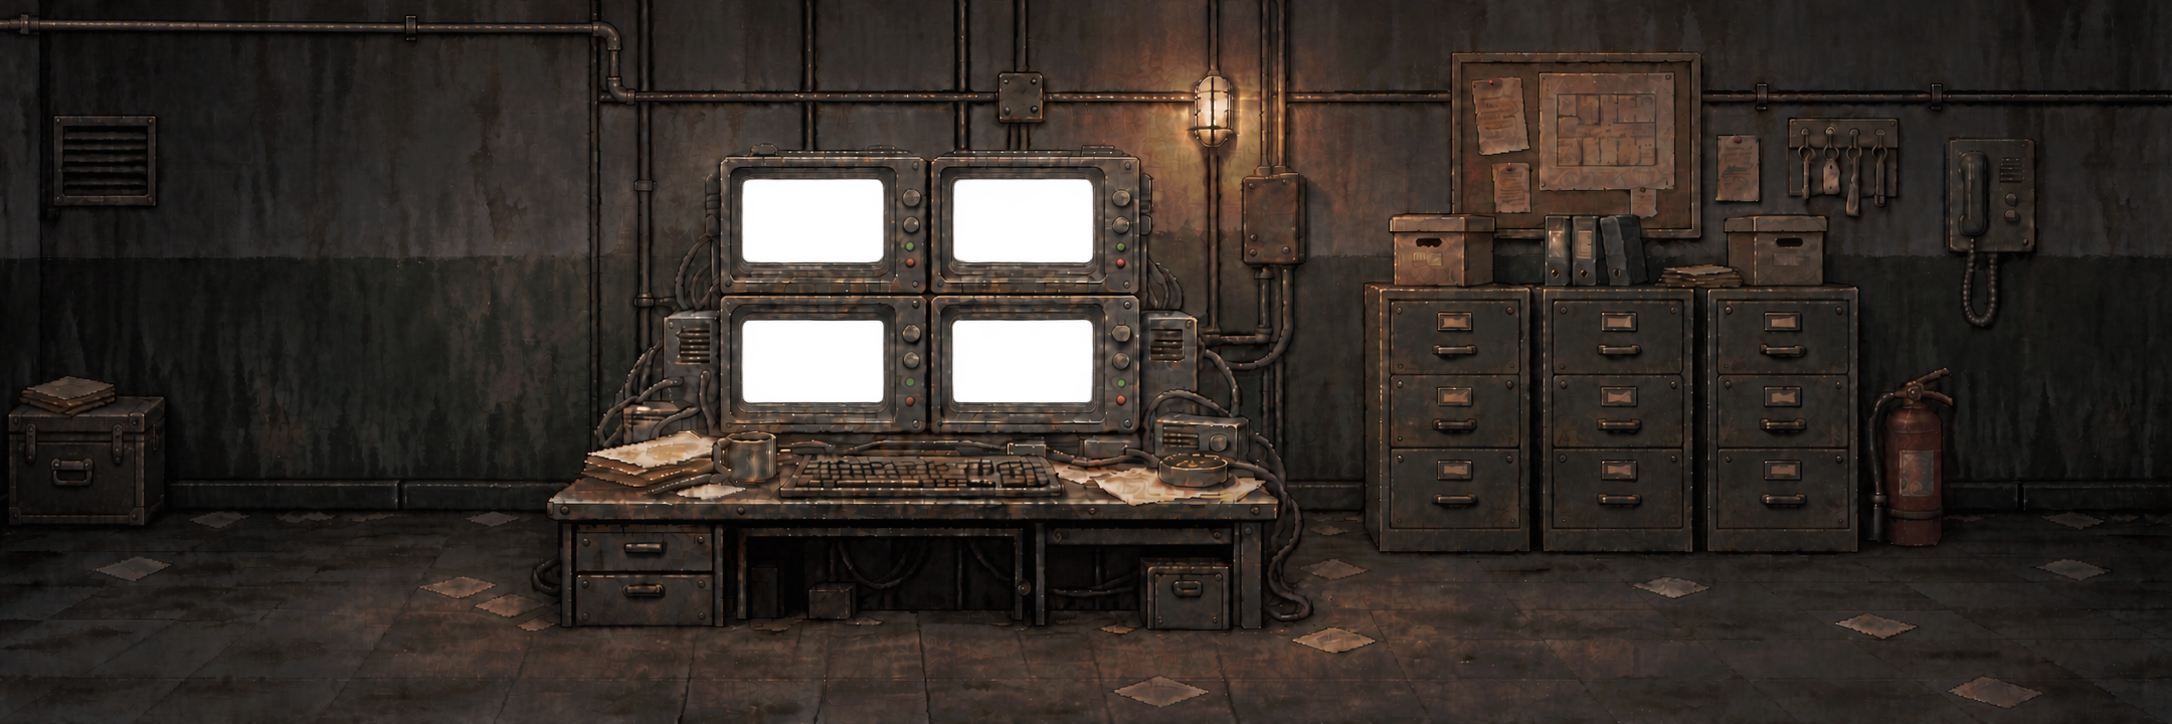
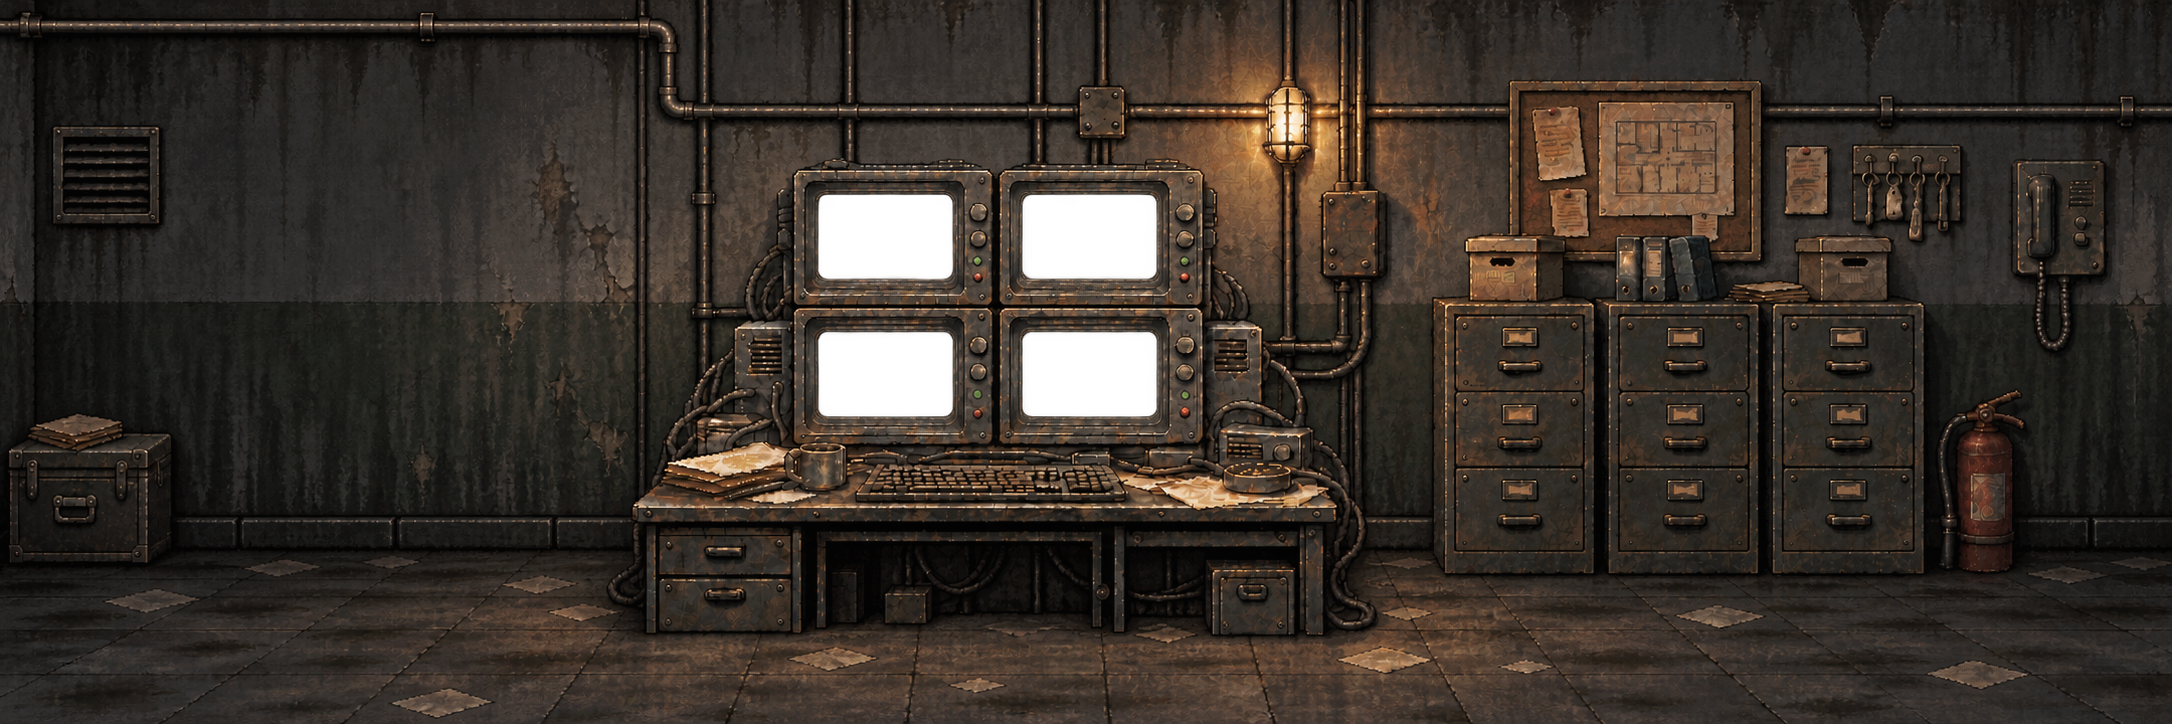
Regenerate continuous security room and retarget menu geometry

diff --git a/tests/test_menu_assets.py b/tests/test_menu_assets.py
@@ -36,9 +36,13 @@ for y in range(height):
         predictor=(0,left,above,(left+above)//2,paeth(left,above,corner))[kind]
         row[x]=(row[x]+predictor)&255
     rows.append(row);prior=row
-for x,y in [(800,220),(1000,220),(800,360),(1000,360)]:
+for x,y in [(886,236),(1088,235),(885,375),(1090,375)]:
     assert rows[y][x*4+3]==0,'CRT glass must be actual transparency, not painted checkerboard'
-holes=[(739,173,887,274),(946,173,1097,275),(739,312,887,412),(946,312,1097,411)]
+holes=[(817,194,954,280),(1021,194,1158,277),(817,334,954,418),(1021,334,1158,418)]
+# Entire inset glass interiors must be transparent; four pinholes are insufficient.
+interiors=[(824,211,943,270),(1034,210,1141,269),(827,346,945,403),(1035,344,1139,405)]
+for x0,y0,x1,y1 in interiors:
+    assert all(rows[y][x*4+3]==0 for y in range(y0,y1) for x in range(x0,x1)), 'Opaque pixels in CRT glass'
 for y in range(height):
     for x in range(width):
         if rows[y][x*4+3]==0:

diff --git a/README.md b/README.md
@@ -1,8 +1,8 @@
 # B47ANCE'd UI
 
-Development version: 0.5.0-dev.9.
+Development version: 0.5.0-dev.10.
 
-The development main-menu/logo column is centered on the open wall, with a smaller proportional logo and all dynamic entries above the baseboard. The artwork moves the vent/locker left and routes the pipe above this quiet space. At 1920x1080 the column center moves from about X333 to X550, ending around Y701. Offline layout checks cover 4:3, standard 16:9 through 4K, 21:9 and 32:9 through 5120x1440, including long labels. Dev.9 is not deployed or uploaded; Workshop remains 0.5.0-dev.8. Native rendering remains untested for this revision.
+The development security room is regenerated as one continuous image, with consistent wall, floor, pipes and lighting. The logo/menu fit on the quiet left wall, with four transparent CRT openings and adjusted standard/ultrawide crops. Source X440/Y72-470 bounds keep dynamic entries above the baseboard and before the conduit. Offline checks cover 4:3, standard 16:9 through 4K, 21:9 and 32:9 through 5120x1440, including long labels. Dev.10 is not deployed or uploaded; Workshop remains 0.5.0-dev.8. Current native rendering remains NOT TESTED. [Generation prompt and provenance](docs/MENU_ROOM_REGENERATION_PROMPT.md).
 
 Lua-only shared presentation for Project Zomboid Build 42.21. Public client API 1 provides styled native controls, rendering, layout helpers, focus, dialogs, bounded tooltips, per-mod/per-local-player appearance preferences, the appearance editor and original clipboard drawing.
 
@@ -16,7 +16,7 @@ The native adapter applies that style automatically to the native main-menu and 
 
 Quartermaster consumes this library; UI works without Quartermaster, Rooms or PC Framework. Application rows, labels, callbacks, permissions and network/gameplay state belong to consuming mods. No global vanilla class patches or custom Java/JAR dependencies.
 
-Development 0.5.0-dev.9 includes the original security-room main-menu artwork, with dark menu space on the left and four CRT screens on the right. The continuous room now extends beyond the desk to the right, with one wall paint boundary, connected pipe/baseboard and floor perspective. The wider field of view reframes the desk toward the center-left and retains a quiet left menu column. Filing cabinets, archive boxes, a security noticeboard, keys, intercom and extinguisher furnish the right wall; a shadowed footlocker and vent add detail at the far left. Uniform cover scaling fills 32:9 displays such as 5120x1440; narrow crops focus on the menu/desk group while ultrawide views reveal more right scenery. Each boot creates independent short startup delays and 1-60 seconds of static per monitor, followed by a persistent subdued NO SIGNAL loop. Menu labels are enlarged and centered beneath the logo; visible direct-child menu entries are discovered dynamically and rows refit when mods add, hide or remove them. Standard labels scale; custom renderers retain their own text drawing. These are decorative animations, not live cameras. The Esc background stays native; original menu actions and controller label objects remain. The title screen mutes native music gain at runtime; audible rain/thunder suppression awaits an in-game listening check. See [background design and runtime gates](docs/MENU_BACKGROUND.md).
+Development 0.5.0-dev.10 includes the original security-room main-menu artwork, with dark menu space on the left and four CRT screens on the right. The entire scene was regenerated together, including the wall, connected conduits, baseboard and tiled floor perspective. The wider field of view reframes the desk toward the center-left and retains a quiet left menu column. Filing cabinets, archive boxes, a security noticeboard, keys, intercom and extinguisher furnish the right wall; a shadowed footlocker and vent add detail at the far left. Uniform cover scaling fills 32:9 displays such as 5120x1440; narrow crops focus on the menu/desk group while ultrawide views reveal more right scenery. Each boot creates independent short startup delays and 1-60 seconds of static per monitor, followed by a persistent subdued NO SIGNAL loop. Menu labels are enlarged and centered beneath the logo; visible direct-child menu entries are discovered dynamically and rows refit when mods add, hide or remove them. Standard labels scale; custom renderers retain their own text drawing. These are decorative animations, not live cameras. The Esc background stays native; original menu actions and controller label objects remain. The title screen mutes native music gain at runtime; audible rain/thunder suppression awaits an in-game listening check. See [background design and runtime gates](docs/MENU_BACKGROUND.md).
 
 ```lua
 local UI=require('B47ANCEDUI/API').requireVersion(1).forMod('MyMod')

diff --git a/docs/MENU_ROOM_REGENERATION_PROMPT.md b/docs/MENU_ROOM_REGENERATION_PROMPT.md
@@ -1,0 +1,26 @@
+# Full-room regeneration — 0.5.0-dev.10
+
+User request: regenerate the entire image as one continuous image.
+
+Tool mode: built-in `image_gen`, original owned dev.9 panorama supplied only as a subject/style/composition reference; transparent output requested. All scenery was regenerated in one call. The selected PNG is used unchanged, without raster post-processing or external artwork.
+
+Asset: `src/B47ANCEDUI/42/media/ui/B47ANCEDUI/SecurityRoomPanorama.png`, 2172×724 RGBA.
+
[1 lines of base64/hex data omitted]
+
+The generated room has incidental partial alpha, so the existing opaque black underlay remains required. Four measured transparent glass openings mask the animated surfaces; full inset interiors and absence of other alpha-zero scenery holes are checked offline. Raw near-transparent RGB fringes are judged in the actual dark composite.
+
+The following is the generation prompt, not proof that every requested coordinate was followed. Measured final coordinates are in MENU_ARTWORK.json; Lua masks and viewport tests use those measurements. Offline visual review covers room continuity and code-rendered compositions, not actual PZ rendering.
+
+```text
+Use case: stylized-concept.
+Asset type: production pixel-art panoramic background for a survival game's main menu.
+Primary request: Completely regenerate this abandoned bunker security room as ONE unified continuous illustration, drawn from edge to edge in a single coherent scene. This is a full redraw, not an extension, collage, seam repair, narrow edit, or reuse of rectangular image sections.
+Input image 1 is ONLY a reference for the general subject, palette, layout and proportions. Repaint all of the room with unified perspective, textures, scale and lighting.
+Canvas: very wide 3:1 panorama, preferably 2172 x 724 pixels.
+Composition: a straight-on wide view of one continuous bunker wall and tiled floor. Left third contains an uncluttered dark charcoal wall for a large logo and a column of menu text which the game draws later. Keep the region from approximately x230 to x600 and y72 to y470 quiet and free of props or bright pipes. A small low storage trunk and a vent may sit at the extreme left edge, outside this clear region. The security desk is centered around x920 with a bank of EXACTLY FOUR vintage CRT monitors in a compact 2x2 grid, facing straight forward. Keep the four inner display apertures approximately near rectangles (744,182)-(882,262), (955,180)-(1090,262), (744,321)-(882,402), (954,321)-(1090,402), allowing natural bezels around them. Desk, keyboard, mug, papers, radio, and cables belong to the same room. The right third contains old metal filing cabinets, archive boxes, a noticeboard with indistinct diagrams, a key rack, wall telephone and a fire extinguisher.
+Continuity: one uninterrupted wall paint boundary, consistent baseboard, consistent tile perspective and floor elevation across the full width. A physically plausible metal conduit runs continuously near the top of the wall from left to right with neat joined bends and branches only where useful. No awkward raised rectangular detour, dead-ended duplicate segments, floating pipe pieces, abrupt material boundaries, panel seams, scale changes or mismatched light pools.
+Style: detailed crisp dark pixel art, controlled pixel clusters and weathered metal; restrained olive-charcoal, black, tarnished bronze, muted grey. Gentle amber bunker lamps, deep but readable shadow, coherent global lighting. No photographic blur. No people.
+Transparency: the room fills the entire rectangle and is opaque EXCEPT the four rounded inner CRT screen apertures, which must be actual fully transparent alpha cutouts for live video animation underneath. No other transparent holes. Keep monitor frames and their buttons opaque.
+No logo, menu text, readable writing, watermark, UIWorks branding, no-signal lettering, simulated CRT content or checkerboard painted into the image. Do not bake a game UI into the artwork. Deliver only the single continuous room illustration with the four transparent display openings.
+```

diff --git a/docs/WORKSHOP_DESCRIPTION.md b/docs/WORKSHOP_DESCRIPTION.md
@@ -10,7 +10,7 @@ Shared Lua-only interface components for B47ANCE'd Workshop mods in Project Zomb
 - Native main-menu and in-game Esc-menu navigation use the same text/underline style, preserving native actions, visibility and controller order.
 - Security-room main menu with four decorative CRTs: independent 1-60 second startup static, then persistent no-signal loops. The room artwork fills narrow and 32:9 ultrawide screens without distorting the CRTs; visible mod-added menu items are placed beneath the logo.
 - Runtime-only main-menu music gain mute; saved audio preferences remain unchanged. Audible rain/thunder suppression requires an in-game listening check.
-- Development wall composition: logo/menu centered on the open wall above the baseboard, with vent/locker moved left and conduit routed above the column. Dev.9 is not uploaded; current Workshop build remains 0.5.0-dev.8.
+- Development full-room regeneration: one continuous wall, floor, conduit system and lighting scheme, with four transparent CRT apertures and logo/menu on the quiet left wall. Dev.10 is not uploaded; current Workshop build remains 0.5.0-dev.8.
 - Bunker decoration: right-side filing cabinets, security board, keys and intercom; shadowed storage and ventilation at the far left.
 - Optional PZ Optimization menu-entry compatibility: shared title style and a reserved version/update subtitle; original action and live status retained. No provider dependency.
 - Shared rendering, layout helpers, controller focus, dialogs and bounded tooltips.
@@ -26,7 +26,7 @@ UI does not require Quartermaster, Rooms, PC Framework or custom Java/JAR compon
 
 MP testing build - dedicated multiplayer NOT TESTED
 
-Offline Lua 5.1 contracts, syntax, source inventory, translation coverage and package integrity fixtures passed. The earlier 0.5.0-dev.2 menu visuals were observed in an isolated local game profile; 0.5.0-dev.9 ultrawide and inherited audio behavior, controller, split-screen, subscription/download and dedicated-server behavior are NOT TESTED. This is test distribution, not stable-release certification.
+Offline Lua 5.1 contracts, syntax, source inventory, translation coverage and package integrity fixtures passed. The earlier 0.5.0-dev.2 menu visuals were observed in an isolated local game profile; 0.5.0-dev.10 ultrawide and inherited audio behavior, controller, split-screen, subscription/download and dedicated-server behavior are NOT TESTED. This is test distribution, not stable-release certification.
 
 ## Configuration
 Consuming mods can expose the shared local appearance editor: background opacity, a #RRGGBB hex field and Red/Green/Blue sliders (0–255). Changes preview locally; Reset restores opacity 82 and grey #B0B0B0. Existing opacity-only settings retain their values. Values are isolated by mod and local player. Appearance settings do not change gameplay or server permissions. There are no shared-gameplay sandbox options in this presentation-only foundation.
@@ -44,4 +44,4 @@ Developed by B47ANCE'd Workshop. Original B47ANCE-owned shared code extracted fr
 
 ## Development background
 
-Version 0.5.0-dev.9 expands the continuous security room to the right, reframes the desk for standard and ultrawide screens and retains the title-screen music gain mute. Offline viewport checks cover 4:3, 16:9 at 720p/1080p/1440p/4K, 21:9 and 32:9 through 5120x1440. Native acceptance of this revision remains NOT TESTED.
+Version 0.5.0-dev.10 regenerates the whole room in a single pass and retargets its four transparent CRT masks and standard/ultrawide crop. Existing title-screen music gain mute remains unchanged. Offline viewport checks cover 4:3, 16:9 at 720p/1080p/1440p/4K, 21:9 and 32:9 through 5120x1440. Native acceptance of this revision remains NOT TESTED.

diff --git a/docs/MENU_BACKGROUND.md b/docs/MENU_BACKGROUND.md
@@ -1,6 +1,6 @@
 # Security-room main menu
 
-Project Version: 0.5.0-dev.9
+Project Version: 0.5.0-dev.10
 
 Compatible MINOR addition from 0.4.0-dev.1; public API major 1, appearance storage and consumer contracts are unchanged. Current 0.5.0-dev.8 Workshop MP testing distribution is recorded in WORKSHOP_SECURITY_ROOM_UPDATE.md; native acceptance remains NOT TESTED.
 
@@ -70,3 +70,7 @@ The column width is also capped by the available space before source X 695, the 
 ## Wall composition (0.5.0-dev.9)
 
 The user-supplied dev.8 runtime screenshot showed the column left of the open wall and its lower entries on the floor. The new art tucks the vent/locker farther left, calms the wall and reroutes the overhead pipe above it. Lua centers the column at source X405, with wall bounds Y72-470, a logo height cap of 34% of that region and a gap of max(12,20*artScale) before the dynamic rows. Width still respects the casing cap. These are internal drawing coordinates, with no gameplay/settings/schema change. At 1920x1080 the center is approximately X550 and the bottom Y701. Native objects/actions, mod entry discovery, status-note reservation and animation timing remain unchanged. New alpha bounds are measured in MENU_ARTWORK.json; unchanged animation rectangles cover them. Built-in image edit prompt/provenance: MENU_WALL_ART_PROMPT.md. Offline composition previews are not PZ runtime evidence. Not deployed/uploaded; Workshop remains dev.8.
+
+## Full-room regeneration (0.5.0-dev.10)
+
+The entire scene is regenerated in one built-in image call, using dev.9 only as a composition/style reference. One wall, floor, conduit system and lighting scheme replace the accumulated local edits. The generated 2172x724 PNG is used unchanged. Four measured glass groups and animation rectangles are recorded in MENU_ARTWORK.json. The crop focus moves to source X760 to keep the new casing span X775-1230 inside the 4:3 viewport. Menu center X440, width cap 390 and right-wall limit 645 keep ordinary/long labels before the conduit; Y72-470 and the 34% logo-height cap remain. No public API, callback, timing, audio or gameplay ownership change. Generation prompt/provenance: MENU_ROOM_REGENERATION_PROMPT.md. Not deployed or uploaded; Workshop remains dev.8. Native rendering for dev.10 NOT TESTED.

diff --git a/docs/NATIVE_MENUS.md b/docs/NATIVE_MENUS.md
@@ -1,6 +1,6 @@
 # Native main and Esc menu styling
 
-Project Version: 0.5.0-dev.9
+Project Version: 0.5.0-dev.10
 
 Dev.9 positions the main-menu logo and complete dynamic column inside the quiet wall in the new artwork; see MENU_BACKGROUND.md. This drawing/layout refinement retains native actions/controller objects and the Esc layout. Native acceptance for dev.9 NOT TESTED; Workshop remains dev.8.
 
@@ -33,3 +33,5 @@ Baseline ownership checks require native label type, known field/internal ID, di
 ## Optional status-label compatibility (0.5.0-dev.7)
 
 The public PZOPT_MENU ISLabel is the audited exception to unknown-custom-renderer refusal. Its original renderer executes once; temporary instance draw interception supplies the shared title style and centers its live Small-font version/update line in reserved space beneath the title. The background layout subtracts that note lane before distributing normal rows, then fits title/note scale for crowded layouts. The provider's joypad texture is positioned beside the centered title and bounded by the primary row; unrelated textures pass through. Callback, original text/status colors, glyph selection and tooltip ownership remain with the provider; height and methods restore on errors, which propagate. An already wrapped label delegates unchanged when the security-room background is inactive or in-game. No provider API, Java dependency, external edits, network/save state or settings were added. Other custom renderers remain guarded. See [neutral contract and clean-room record](THIRD_PARTY_RESEARCH.md). Native PZ acceptance remains NOT TESTED.
+
+0.5.0-dev.10 replaces the whole security-room artwork in a single generation pass. The background adapter retargets CRT masks/crop and fits the existing dynamic logo/menu column on the quiet wall at source X440/Y72-470, before X645. Native navigation identities, callbacks, provider status ownership and Esc behavior remain unchanged. See MENU_BACKGROUND.md and MENU_ROOM_REGENERATION_PROMPT.md. Current native PZ rendering NOT TESTED; no deployment or publication.

diff --git a/docs/TESTING.md b/docs/TESTING.md
@@ -1,6 +1,8 @@
 # Validation
 
-Project Version: 0.5.0-dev.9
+Project Version: 0.5.0-dev.10
+
+0.5.0-dev.10 [TESTED: offline Windows, 2026-10-19]: `python -X utf8 -B scripts/check_versions.py`, `python -X utf8 -B tests/run_tests.py` and `git diff --check`. Full-room generated PNG SHA/CRC/decoded alpha checks, entire inset transparent CRT interiors, no other alpha-zero scenery holes, and all existing Lua/API/source/archive checks PASS. Retargeted masks and casing span X775-1230 pass all nine viewport sizes with maxMenuItemWidth240/2000. Menu/logo center X440 and right bound X645 keep the column on the quiet wall; wall bounds Y72-470 remain. Offline 1920x1080, 2560x720 (32:9) and 1024x768 compositions were inspected for scene continuity, screen edges and menu separation. At 1080p the column center is approximately X483, ending at Y701. Preview fonts are illustrative, not native PZ metrics. No new PZ/server launch, deployment or upload. Current native rendering/input and dedicated acceptance NOT TESTED; G7/stable G8 remain BLOCKED.
 
 0.5.0-dev.9 [TESTED: offline Windows, 2026-10-19]: `python -X utf8 -B scripts/check_versions.py`, `python -X utf8 -B tests/run_tests.py` and `git diff --check`. New assertions first fail on dev.8 at `Keep logo inside the empty wall`, then pass with X405/Y72-470 wall layout: logo above menu, all rows above baseboard, casing separation and full viewport cover across the same nine resolutions with width requests 240/2000. Existing crowded/status/callback/exception fixtures remain applicable. New artwork hash/CRC, decoded real CRT alpha and full-image no-extra-hole check PASS. Code-composited visual previews are offline only. Native dev.9 render/input NOT TESTED; no deployment/upload or new game/server launch.
 

diff --git a/docs/WORKSHOP_CHANGELOG.md b/docs/WORKSHOP_CHANGELOG.md
@@ -1,8 +1,8 @@
-Version 0.5.0-dev.9
+Version 0.5.0-dev.10
 
 MP testing build - dedicated multiplayer NOT TESTED
 
-Development dev.9: center the logo/menu on the quiet wall and fit all entries above the baseboard. Move the vent/locker left and route the pipe above this space. Not uploaded; Workshop remains 0.5.0-dev.8. Native dev.9 rendering NOT TESTED.
+Development dev.10: regenerate the entire security room in one continuous image, with consistent wall, floor, conduits and lighting. Retarget four transparent CRT apertures and standard/ultrawide crops; keep the logo/menu on the quiet wall above the baseboard. Not uploaded; Workshop remains 0.5.0-dev.8. Native dev.10 rendering NOT TESTED.
 
 Right-expanded 32:9 security-room main-menu background: one continuous back wall, pipe/baseboard/floor perspective, one lamp and four independently randomized static/no-signal monitors. The wider field of view reframes the desk toward center-left. Native main-menu actions and controller label identities remain; Esc background is unchanged. Each monitor has independent 1-60 second initial static then persistent no-signal animation. One continuous panorama with undistorted CRTs and transparent screen openings fills ultrawide displays. Narrower windows crop the outer room. Larger centered navigation adapts to visible mod-added menu labels/buttons. Decorative animation only, no live CCTV.
 

diff --git a/CHANGELOG.md b/CHANGELOG.md
@@ -1,5 +1,10 @@
 # Changelog
 
+## [0.5.0-dev.10]
+- Compatible PATCH: regenerate the entire security room in one image-generation pass, with one wall, floor, conduit system and lighting scheme. No side-panel compositing; retain the quiet menu wall and bunker decorations.
+- Retarget all four genuine transparent CRT apertures. Update the crop focus to retain the new monitor casings at 4:3 and fit the logo/menu within the quiet wall at source X440/Y72-470, before its conduit.
+- Strengthen alpha validation to check full inset glass interiors. Public API 1, native actions, dynamic entries, startup/static timing and audio behavior remain unchanged. Offline validation only; not deployed or uploaded. Workshop remains dev.8.
+
 ## [0.5.0-dev.9]
 - Pipe art refinement: extend one straight highest run to the left edge and remove its old left ascent/lower segment; retain a single coupled connection at the right. No Lua/layout or public API change.
 - Compatible PATCH: recenter logo/navigation on the open wall at source X405 and fit the complete dynamic column inside source Y72-470, above the baseboard. Limit logo height to 34% of that wall region; preserve aspect ratio, native actions and status-note rows.

diff --git a/docs/ARCHITECTURE.md b/docs/ARCHITECTURE.md
@@ -1,6 +1,6 @@
 # Architecture and persistence
 
-Project Version: 0.5.0-dev.9
+Project Version: 0.5.0-dev.10
 
 Initial project creation establishes canonical VERSION and API 1; no prior UI project version exists. This is an extracted foundation, not fulfillment of the full-overhaul audit. Authority is client presentation only: no server module, gameplay ModData, custom network commands, inventory mutation or game-state ownership. Normal client Lua load paths expose the API. Dedicated servers may install the mod as a dependency but do not load client widgets; runtime verification is pending.
 

diff --git a/docs/API.md b/docs/API.md
@@ -1,6 +1,6 @@
 # Public Lua API
 
-Project Version: 0.5.0-dev.9
+Project Version: 0.5.0-dev.10
 
 Client only. `local API=require 'B47ANCEDUI/API'`; `API.requireVersion(1)` returns the provider or errors for an unsupported API major before application UI is constructed. `API.apiVersion` is the independent contract major; `API.version` is the project version. API 1 is the initial contract. Add `B47ANCEDUI` to mod.info `require`; no bundled implementation fallback or private module require is supported for consumers.
 
